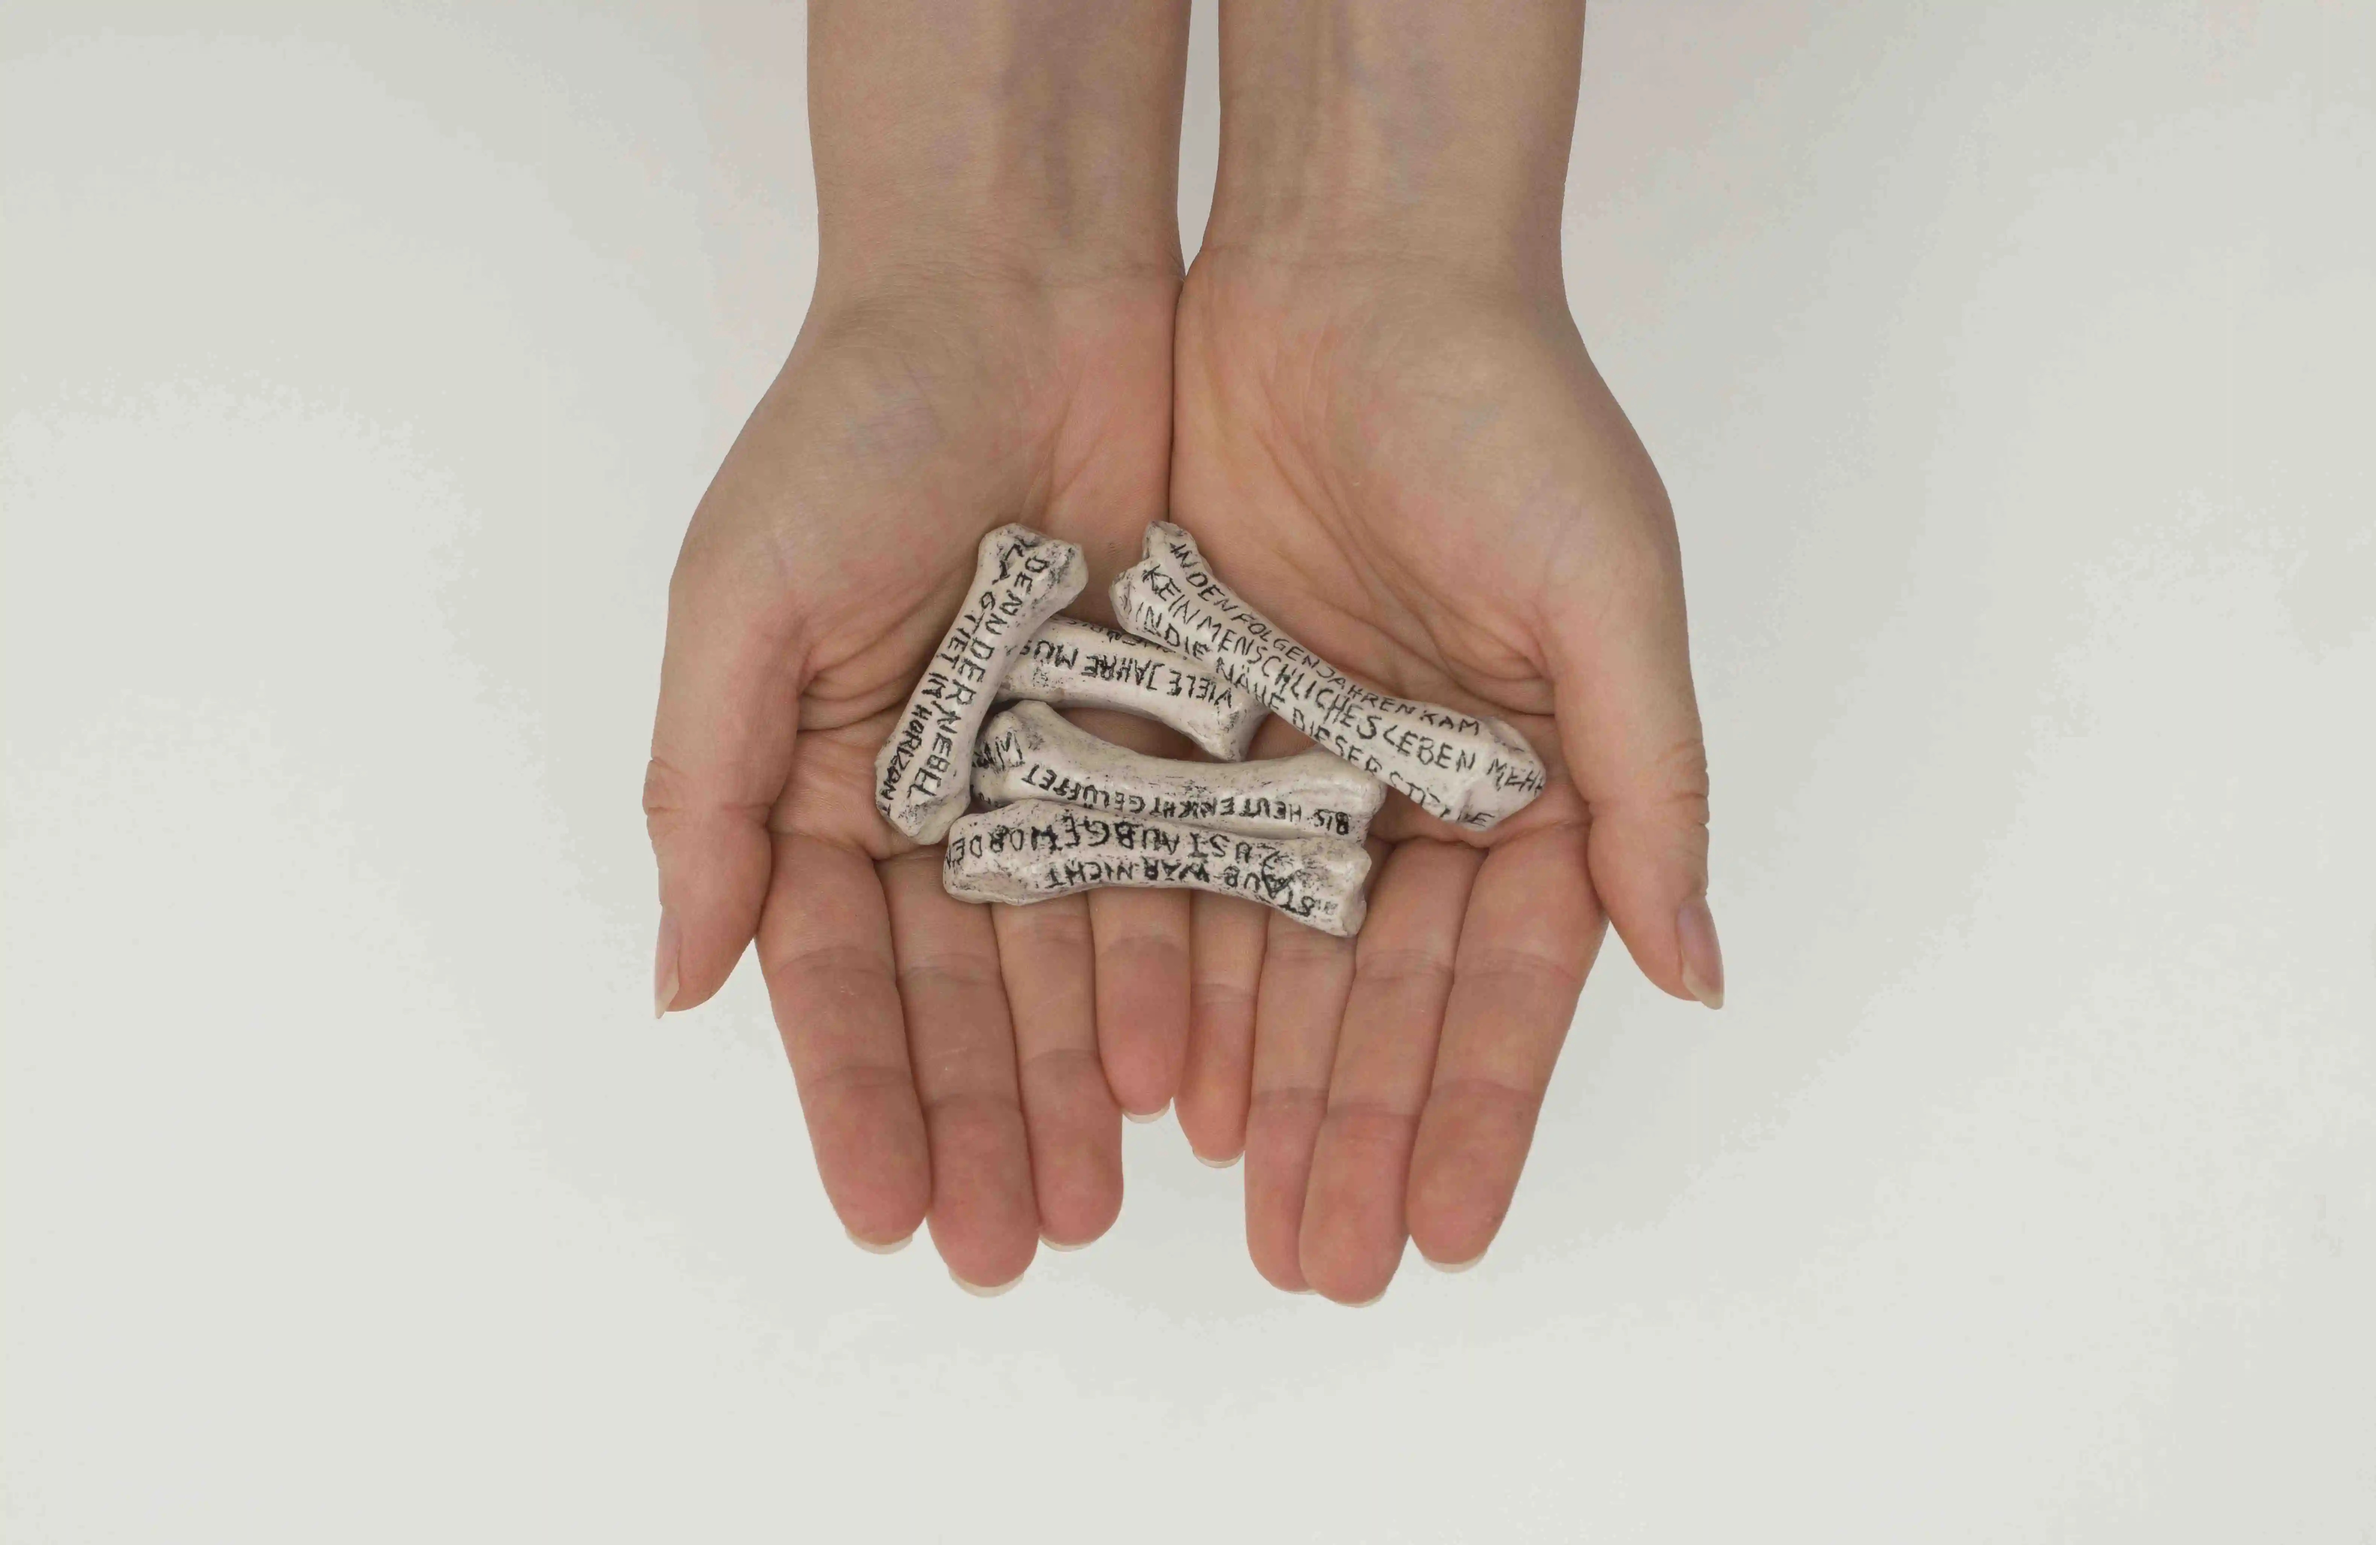
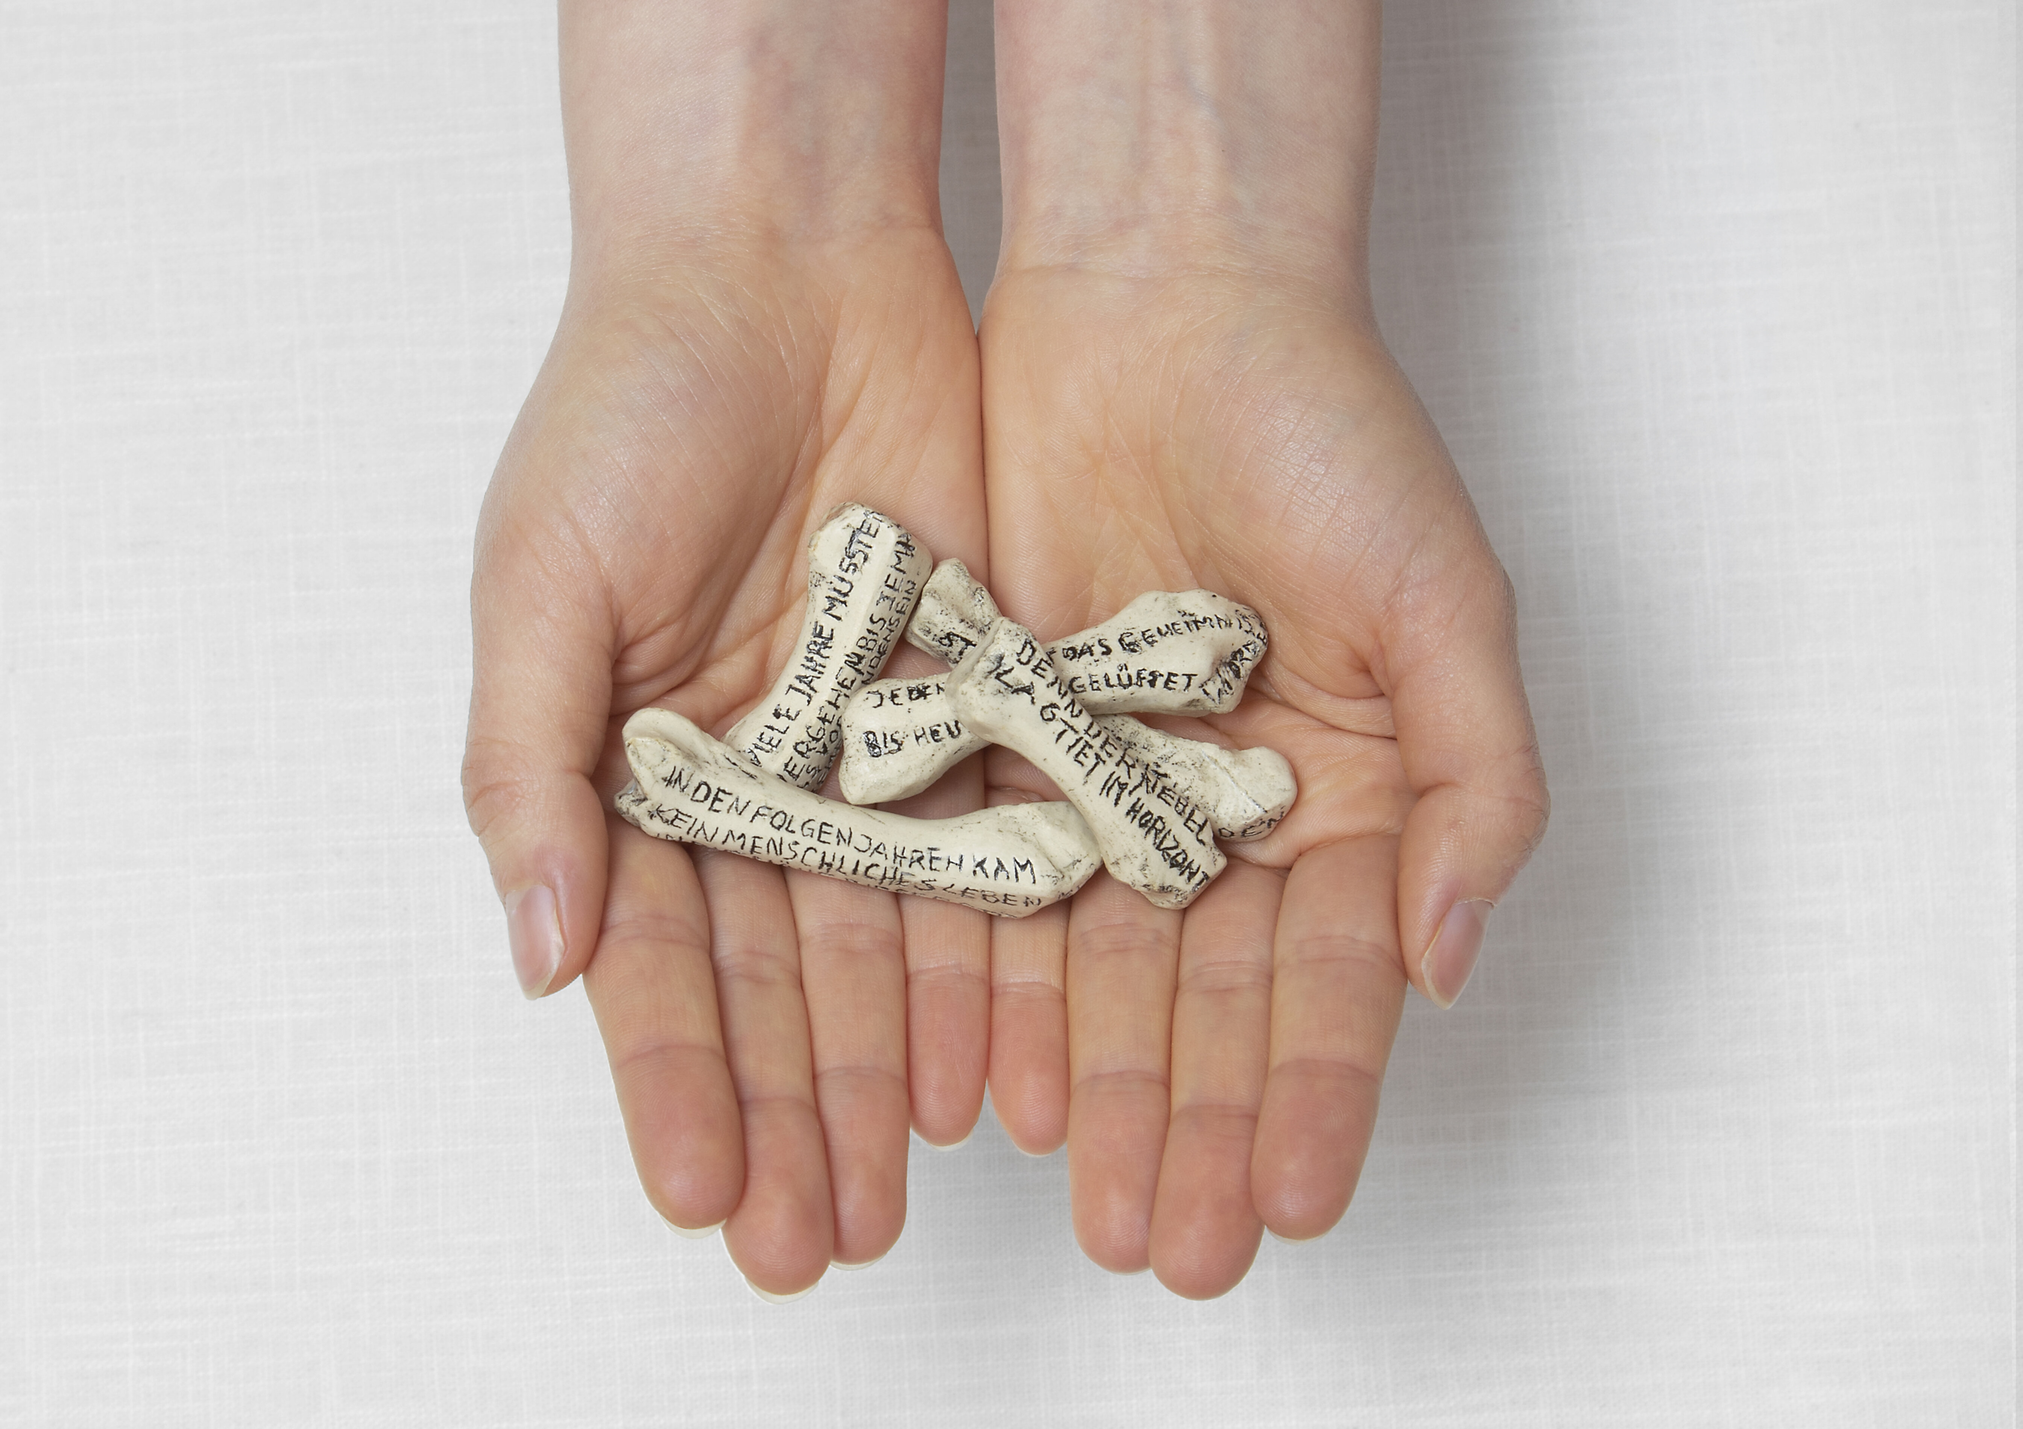
Remove the second, third and fourth images. Update the first image.

diff --git a/html/works/carefully-holding.html b/html/works/carefully-holding.html
@@ -28,42 +28,6 @@
                 </em>
             </div>
         </div>
-        <!-- second image -->
-        <div class="row">
-            <div class="col-12 col-md-8">
-                <a data-fslightbox="gallery" href="img/carefully-holding/web/img2.jpg">
-                    <picture>
-                        <source srcset="img/carefully-holding/web/img2.webp" type="image/webp" />
-                        <source srcset="img/carefully-holding/web/img2.jpg" type="image/jpeg" />
-                        <img class="img-fluid" loading="lazy" alt="Carefully Holding (2)" title="Carefully Holding (2)" src="img/carefully-holding/web/img2.jpg" />
-                    </picture>
-                </a>
-            </div>
-        </div>
-        <!-- third image -->
-        <div class="row">
-            <div class="col-12 col-md-8">
-                <a data-fslightbox="gallery" href="img/carefully-holding/web/img3.jpg">
-                    <picture>
-                        <source srcset="img/carefully-holding/web/img3.webp" type="image/webp" />
-                        <source srcset="img/carefully-holding/web/img3.jpg" type="image/jpeg" />
-                        <img class="img-fluid" loading="lazy" alt="Carefully Holding (3)" title="Carefully Holding (3)" src="img/carefully-holding/web/img3.jpg" />
-                    </picture>
-                </a>
-            </div>
-        </div>
-        <!-- fourth image -->
-        <div class="row">
-            <div class="col-12 col-md-8">
-                <a data-fslightbox="gallery" href="img/carefully-holding/web/img4.jpg">
-                    <picture>
-                        <source srcset="img/carefully-holding/web/img4.webp" type="image/webp" />
-                        <source srcset="img/carefully-holding/web/img4.jpg" type="image/jpeg" />
-                        <img class="img-fluid" loading="lazy" alt="Isometric Installation View" title="Isometric Installation View" src="img/carefully-holding/web/img4.jpg" />
-                    </picture>
-                </a>
-            </div>
-        </div>
         <!-- bottom navigation -->
         <div class="row">
             <div class="col small-text">
